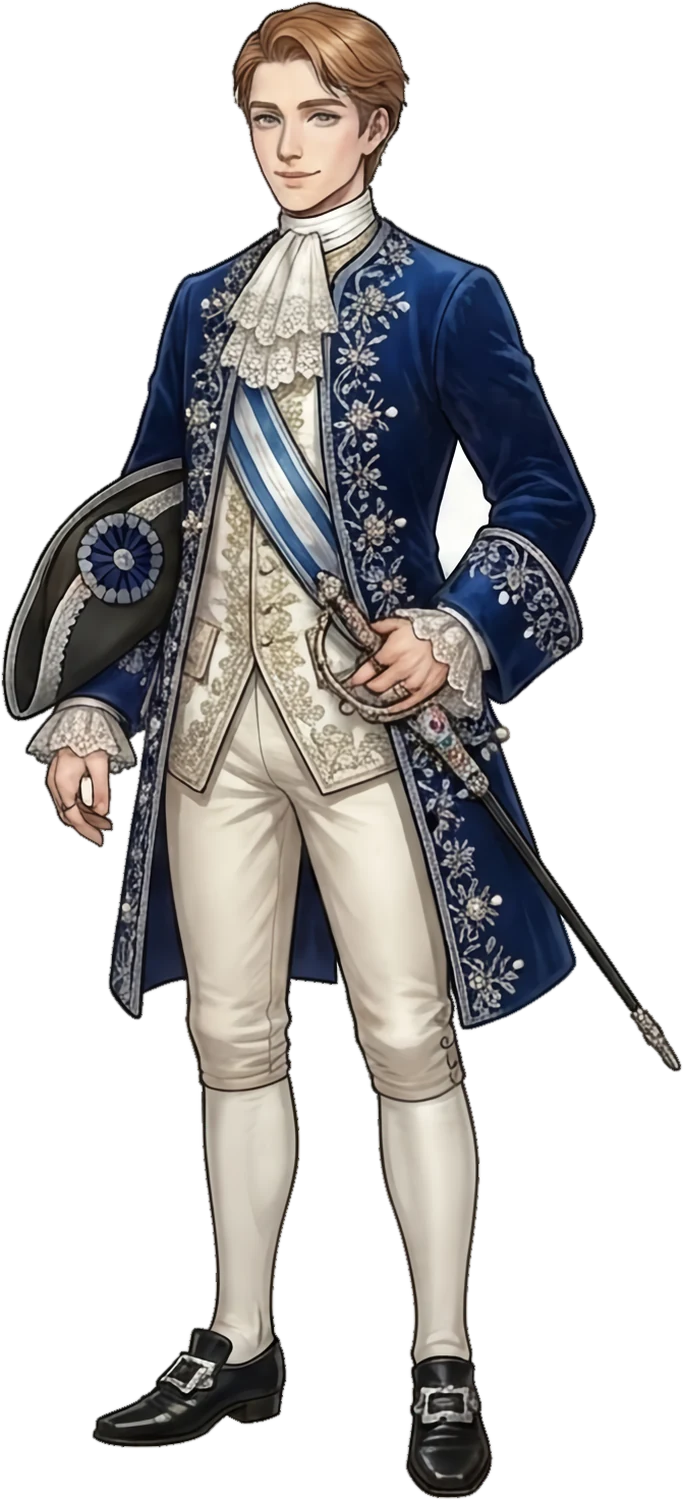
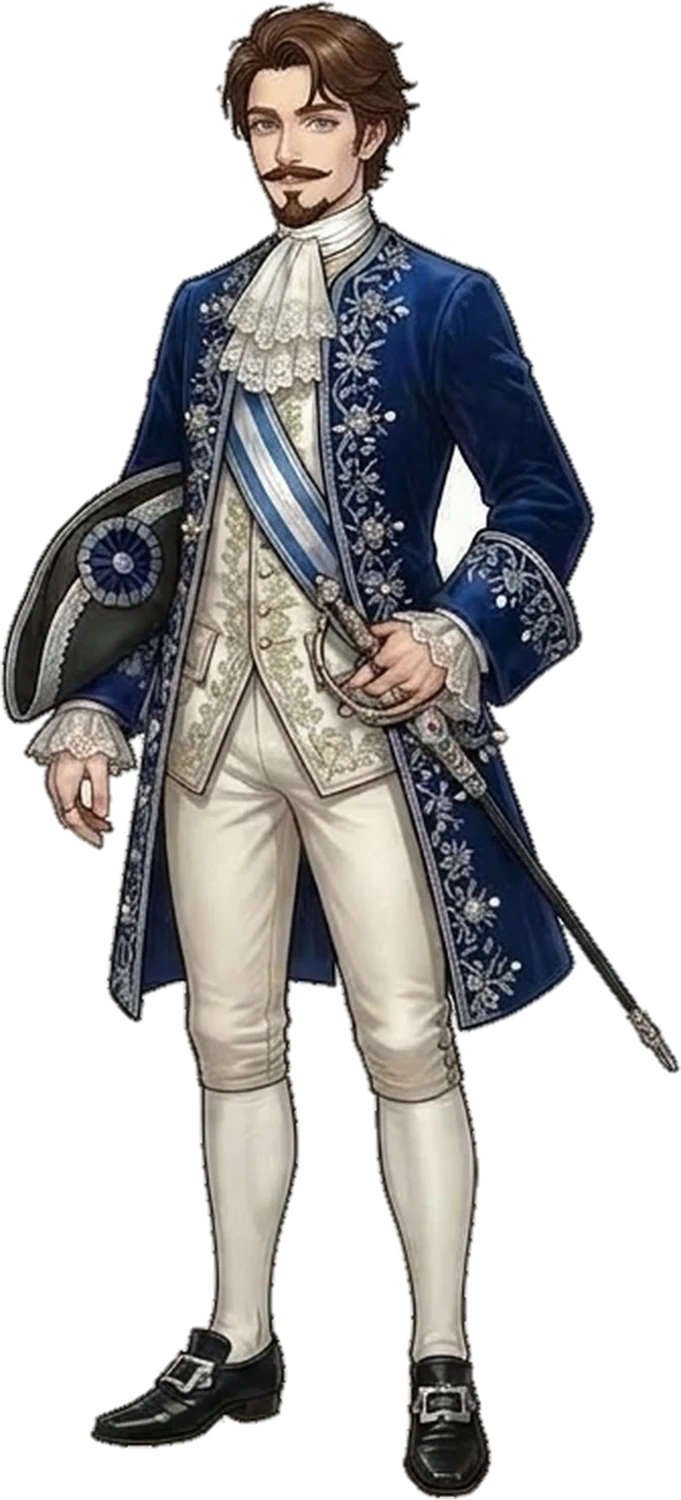
Corsaire : nouveau portrait d'Henry Wyndham
Claude-Session: https://claude.ai/code/session_01AMSofB5YBB9yuyCajHXYUu

diff --git a/sw.js b/sw.js
@@ -1,4 +1,4 @@
-const C='tlc-v61';const F=["./", "index.html", "manifest.webmanifest", "icons/favicon.png", "icons/icon-192.png", "icons/icon-512.png", "icons/icon-maskable-192.png", "icons/icon-maskable-512.png", "assets/agathe.webp", "assets/alistair.webp", "assets/beppe.webp", "assets/bess.webp", "assets/camille.webp", "assets/clem.webp", "assets/cordelia.webp", "assets/cordeliam.webp", "assets/dorval.webp", "assets/duchess.webp", "assets/edmund.webp", "assets/eleanor.webp", "assets/f1.webp", "assets/f2.webp", "assets/f3.webp", "assets/f4.webp", "assets/f5.webp", "assets/fanchon.webp", "assets/father.webp", "assets/fleury.webp", "assets/gabriel.webp", "assets/georgie.webp", "assets/guard.webp", "assets/henry.webp", "assets/iris.webp", "assets/judge.webp", "assets/jules.webp", "assets/kid.webp", "assets/kid2.webp", "assets/kit.webp", "assets/ladyp.webp", "assets/lettie.webp", "assets/lordp.webp", "assets/lucian.webp", "assets/m1.webp", "assets/m2.webp", "assets/m3.webp", "assets/m4.webp", "assets/mateo.webp", "assets/matthias.webp", "assets/mk_bluegold.webp", "assets/mk_duchess.webp", "assets/mk_greengold.webp", "assets/mk_mcf.webp", "assets/mk_mcm.webp", "assets/mk_mother.webp", "assets/mk_peregrine.webp", "assets/mk_pink.webp", "assets/mk_prudence.webp", "assets/mk_queen.webp", "assets/mother.webp", "assets/nell.webp", "assets/perceval.webp", "assets/peregrine.webp", "assets/philippe.webp", "assets/pmc1_gown.webp", "assets/pmc1_pirate.webp", "assets/pmc2_gown.webp", "assets/pmc2_pirate.webp", "assets/pmc3_gown.webp", "assets/pmc3_pirate.webp", "assets/pmc4_gown.webp", "assets/pmc4_pirate.webp", "assets/pmc5_gown.webp", "assets/pmc5_pirate.webp", "assets/prudence.webp", "assets/queen.webp", "assets/rosalind.webp", "assets/roux.webp", "assets/scarlett.webp", "assets/theo.webp", "assets/thomas.webp", "assets/volkov.webp", "assets/cg/ascot_edmund.webp", "assets/cg/ascot_mateo.webp", "assets/cg/ascot_nell.webp", "assets/cg/ascot_rosalind.webp", "assets/cg/bruxelles_mateo.webp", "assets/cg/chevet_edmund.webp", "assets/cg/chevet_mateo.webp", "assets/cg/chevet_nell.webp", "assets/cg/chevet_rosalind.webp", "assets/cg/famille4_mateo.webp", "assets/cg/famille_mateo.webp", "assets/cg/firstkiss_edmund.webp", "assets/cg/firstkiss_mateo.webp", "assets/cg/firstkiss_nell.webp", "assets/cg/firstkiss_rosalind.webp", "assets/cg/jardin_edmund.webp", "assets/cg/jardin_mateo.webp", "assets/cg/jardin_nell.webp", "assets/cg/jardin_rosalind.webp", "assets/cg/montmartre_mateo.webp", "assets/cg/pembroke_edmund.webp", "assets/cg/pembroke_mateo.webp", "assets/cg/pembroke_nell.webp", "assets/cg/pembroke_rosalind.webp", "assets/cg/retrouvailles_mateo.webp", "assets/cg/vauxhall_mateo.webp", "assets/cg/wedding_edmund.webp", "assets/cg/wedding_mateo.webp", "assets/cg/wedding_nell.webp"];
+const C='tlc-v62';const F=["./", "index.html", "manifest.webmanifest", "icons/favicon.png", "icons/icon-192.png", "icons/icon-512.png", "icons/icon-maskable-192.png", "icons/icon-maskable-512.png", "assets/agathe.webp", "assets/alistair.webp", "assets/beppe.webp", "assets/bess.webp", "assets/camille.webp", "assets/clem.webp", "assets/cordelia.webp", "assets/cordeliam.webp", "assets/dorval.webp", "assets/duchess.webp", "assets/edmund.webp", "assets/eleanor.webp", "assets/f1.webp", "assets/f2.webp", "assets/f3.webp", "assets/f4.webp", "assets/f5.webp", "assets/fanchon.webp", "assets/father.webp", "assets/fleury.webp", "assets/gabriel.webp", "assets/georgie.webp", "assets/guard.webp", "assets/henry.webp", "assets/iris.webp", "assets/judge.webp", "assets/jules.webp", "assets/kid.webp", "assets/kid2.webp", "assets/kit.webp", "assets/ladyp.webp", "assets/lettie.webp", "assets/lordp.webp", "assets/lucian.webp", "assets/m1.webp", "assets/m2.webp", "assets/m3.webp", "assets/m4.webp", "assets/mateo.webp", "assets/matthias.webp", "assets/mk_bluegold.webp", "assets/mk_duchess.webp", "assets/mk_greengold.webp", "assets/mk_mcf.webp", "assets/mk_mcm.webp", "assets/mk_mother.webp", "assets/mk_peregrine.webp", "assets/mk_pink.webp", "assets/mk_prudence.webp", "assets/mk_queen.webp", "assets/mother.webp", "assets/nell.webp", "assets/perceval.webp", "assets/peregrine.webp", "assets/philippe.webp", "assets/pmc1_gown.webp", "assets/pmc1_pirate.webp", "assets/pmc2_gown.webp", "assets/pmc2_pirate.webp", "assets/pmc3_gown.webp", "assets/pmc3_pirate.webp", "assets/pmc4_gown.webp", "assets/pmc4_pirate.webp", "assets/pmc5_gown.webp", "assets/pmc5_pirate.webp", "assets/prudence.webp", "assets/queen.webp", "assets/rosalind.webp", "assets/roux.webp", "assets/scarlett.webp", "assets/theo.webp", "assets/thomas.webp", "assets/volkov.webp", "assets/cg/ascot_edmund.webp", "assets/cg/ascot_mateo.webp", "assets/cg/ascot_nell.webp", "assets/cg/ascot_rosalind.webp", "assets/cg/bruxelles_mateo.webp", "assets/cg/chevet_edmund.webp", "assets/cg/chevet_mateo.webp", "assets/cg/chevet_nell.webp", "assets/cg/chevet_rosalind.webp", "assets/cg/famille4_mateo.webp", "assets/cg/famille_mateo.webp", "assets/cg/firstkiss_edmund.webp", "assets/cg/firstkiss_mateo.webp", "assets/cg/firstkiss_nell.webp", "assets/cg/firstkiss_rosalind.webp", "assets/cg/jardin_edmund.webp", "assets/cg/jardin_mateo.webp", "assets/cg/jardin_nell.webp", "assets/cg/jardin_rosalind.webp", "assets/cg/montmartre_mateo.webp", "assets/cg/pembroke_edmund.webp", "assets/cg/pembroke_mateo.webp", "assets/cg/pembroke_nell.webp", "assets/cg/pembroke_rosalind.webp", "assets/cg/retrouvailles_mateo.webp", "assets/cg/vauxhall_mateo.webp", "assets/cg/wedding_edmund.webp", "assets/cg/wedding_mateo.webp", "assets/cg/wedding_nell.webp"];
 self.addEventListener('install',e=>{e.waitUntil(caches.open(C).then(c=>c.addAll(F)).then(()=>self.skipWaiting()))});
 self.addEventListener('activate',e=>{e.waitUntil(caches.keys().then(k=>Promise.all(k.filter(x=>x!==C).map(x=>caches.delete(x)))).then(()=>self.clients.claim()))});
 self.addEventListener('fetch',e=>{if(e.request.method!=='GET')return;e.respondWith(caches.match(e.request).then(r=>r||fetch(e.request).then(res=>{if(res.ok||res.type==='opaque'){const cp=res.clone();caches.open(C).then(c=>c.put(e.request,cp))}return res}).catch(()=>caches.match('index.html'))))});

diff --git a/index.html b/index.html
@@ -7419,7 +7419,7 @@ N(`Ton sang se glace. Il ne peut pas savoir. Personne ne peut savoir. Il sourit,
 {bg:'docks',mus:'tender',card:['L\'arrivée','The arrival'],sub:['',''],where:['Le quai','The quay']},
 {st:['li2','mc']},
 N(`La chaloupe accoste. {a:Un jeune homme|Une jeune femme} en descend, et manque de tomber dans l'eau en posant le pied sur le quai glissant. Un matelot {a:le|la} rattrape par le coude. {a:Il|Elle} rougit jusqu'aux oreilles, remercie le matelot avec une politesse exquise, puis lève les yeux. Et te voit.`,`The launch comes alongside. A young {a:man|woman} steps out and nearly falls into the water setting foot on the slippery quay. A sailor catches {a:him|her} by the elbow. {a:He|She} blushes to the ears, thanks the sailor with exquisite courtesy, then looks up. And sees you.`),
-N(`{li2}. {a:Lord|Lady} Wyndham. {a:Grand, mince, un peu gauche, des cheveux châtain clair coupés court, des lunettes cerclées d'or qu'il retire précipitamment|Grande, mince, les cheveux châtain clair relevés en chignon dont s'échappent des mèches, des lunettes cerclées d'or qu'elle retire précipitamment}. Des yeux gris-vert, très doux, qui te regardent comme si tu étais la première chose belle qu'{a:il|elle} voyait depuis deux mois de mer.`,`{li2}. {a:Lord|Lady} Wyndham. {a:Tall, slim, a little awkward, light brown hair cut short, gold-rimmed spectacles he hurriedly takes off|Tall, slim, light brown hair pinned up with strands escaping, gold-rimmed spectacles she hurriedly takes off}. Grey-green eyes, very gentle, looking at you as if you were the first beautiful thing {a:he|she}'d seen after two months at sea.`),
+N(`{li2}. {a:Lord|Lady} Wyndham. {a:Grand, mince, un peu gauche, des cheveux châtains coupés court, une fine moustache et un petit bouc soignés, des lunettes cerclées d'or qu'il retire précipitamment|Grande, mince, les cheveux châtain clair relevés en chignon dont s'échappent des mèches, des lunettes cerclées d'or qu'elle retire précipitamment}. Des yeux gris-vert, très doux, qui te regardent comme si tu étais la première chose belle qu'{a:il|elle} voyait depuis deux mois de mer.`,`{li2}. {a:Lord|Lady} Wyndham. {a:Tall, slim, a little awkward, brown hair cut short, a neat thin moustache and small goatee, gold-rimmed spectacles he hurriedly takes off|Tall, slim, light brown hair pinned up with strands escaping, gold-rimmed spectacles she hurriedly takes off}. Grey-green eyes, very gentle, looking at you as if you were the first beautiful thing {a:he|she}'d seen after two months at sea.`),
 D('li2','s',`Mademoiselle {last}. Pardonnez-moi. Je… j'avais préparé un compliment. Pendant deux mois. En trois langues. Je les ai tous oubliés.`,`Miss {last}. Forgive me. I… I'd prepared a compliment. For two months. In three languages. I've forgotten them all.`),
 C('p2a',1,[
  {t:[`Sourire. « Alors dites-le dans une quatrième. »`,`Smile. "Then say it in a fourth."`],set:'pWarmWyndham',fx:{li2:3},r:[N(`{a:Il|Elle} cligne des yeux. Puis {a:il|elle} rit, un rire surpris, doux, qui {a:le|la} rend tout de suite moins guindé{a:|e}. « En portugais, alors. Mais je préviens, mon accent est épouvantable. » Il l'est. Tu ris aussi. Sur le quai, ton père pousse un soupir de soulagement qui s'entend jusqu'au fort.`,`{a:He|She} blinks. Then {a:he|she} laughs, a surprised, gentle laugh that makes {a:him|her} instantly less stiff. "In Portuguese, then. But I warn you, my accent is dreadful." It is. You laugh too. On the quay, your father heaves a sigh of relief audible all the way to the fort.`)]},
@@ -8072,7 +8072,7 @@ const PICS={
  roux:{src:'assets/roux.webp',w:554,h:1500,eye:[277,170,48],waist:.40},
  gabriel:{src:'assets/gabriel.webp',w:674,h:1500,eye:[288,170,48],waist:.42},
  scarlett:{src:'assets/scarlett.webp',w:724,h:1500,eye:[349,190,48],waist:.42},
- henry:{src:'assets/henry.webp',w:683,h:1500,eye:[320,170,48],waist:.42},
+ henry:{src:'assets/henry.webp',w:681,h:1500,eye:[317,170,48],waist:.42},
  eleanor:{src:'assets/eleanor.webp',w:906,h:1500,eye:[380,170,48],waist:.42},
  fanchon:{src:'assets/fanchon.webp',w:807,h:1500,eye:[379,170,48],waist:.42},
  thomas:{src:'assets/thomas.webp',w:781,h:1500,eye:[346,170,48],waist:.42},

diff --git a/source/story102.js b/source/story102.js
@@ -9,7 +9,7 @@ N(`Ton sang se glace. Il ne peut pas savoir. Personne ne peut savoir. Il sourit,
 {bg:'docks',mus:'tender',card:['L\'arrivée','The arrival'],sub:['',''],where:['Le quai','The quay']},
 {st:['li2','mc']},
 N(`La chaloupe accoste. {a:Un jeune homme|Une jeune femme} en descend, et manque de tomber dans l'eau en posant le pied sur le quai glissant. Un matelot {a:le|la} rattrape par le coude. {a:Il|Elle} rougit jusqu'aux oreilles, remercie le matelot avec une politesse exquise, puis lève les yeux. Et te voit.`,`The launch comes alongside. A young {a:man|woman} steps out and nearly falls into the water setting foot on the slippery quay. A sailor catches {a:him|her} by the elbow. {a:He|She} blushes to the ears, thanks the sailor with exquisite courtesy, then looks up. And sees you.`),
-N(`{li2}. {a:Lord|Lady} Wyndham. {a:Grand, mince, un peu gauche, des cheveux châtain clair coupés court, des lunettes cerclées d'or qu'il retire précipitamment|Grande, mince, les cheveux châtain clair relevés en chignon dont s'échappent des mèches, des lunettes cerclées d'or qu'elle retire précipitamment}. Des yeux gris-vert, très doux, qui te regardent comme si tu étais la première chose belle qu'{a:il|elle} voyait depuis deux mois de mer.`,`{li2}. {a:Lord|Lady} Wyndham. {a:Tall, slim, a little awkward, light brown hair cut short, gold-rimmed spectacles he hurriedly takes off|Tall, slim, light brown hair pinned up with strands escaping, gold-rimmed spectacles she hurriedly takes off}. Grey-green eyes, very gentle, looking at you as if you were the first beautiful thing {a:he|she}'d seen after two months at sea.`),
+N(`{li2}. {a:Lord|Lady} Wyndham. {a:Grand, mince, un peu gauche, des cheveux châtains coupés court, une fine moustache et un petit bouc soignés, des lunettes cerclées d'or qu'il retire précipitamment|Grande, mince, les cheveux châtain clair relevés en chignon dont s'échappent des mèches, des lunettes cerclées d'or qu'elle retire précipitamment}. Des yeux gris-vert, très doux, qui te regardent comme si tu étais la première chose belle qu'{a:il|elle} voyait depuis deux mois de mer.`,`{li2}. {a:Lord|Lady} Wyndham. {a:Tall, slim, a little awkward, brown hair cut short, a neat thin moustache and small goatee, gold-rimmed spectacles he hurriedly takes off|Tall, slim, light brown hair pinned up with strands escaping, gold-rimmed spectacles she hurriedly takes off}. Grey-green eyes, very gentle, looking at you as if you were the first beautiful thing {a:he|she}'d seen after two months at sea.`),
 D('li2','s',`Mademoiselle {last}. Pardonnez-moi. Je… j'avais préparé un compliment. Pendant deux mois. En trois langues. Je les ai tous oubliés.`,`Miss {last}. Forgive me. I… I'd prepared a compliment. For two months. In three languages. I've forgotten them all.`),
 C('p2a',1,[
  {t:[`Sourire. « Alors dites-le dans une quatrième. »`,`Smile. "Then say it in a fourth."`],set:'pWarmWyndham',fx:{li2:3},r:[N(`{a:Il|Elle} cligne des yeux. Puis {a:il|elle} rit, un rire surpris, doux, qui {a:le|la} rend tout de suite moins guindé{a:|e}. « En portugais, alors. Mais je préviens, mon accent est épouvantable. » Il l'est. Tu ris aussi. Sur le quai, ton père pousse un soupir de soulagement qui s'entend jusqu'au fort.`,`{a:He|She} blinks. Then {a:he|she} laughs, a surprised, gentle laugh that makes {a:him|her} instantly less stiff. "In Portuguese, then. But I warn you, my accent is dreadful." It is. You laugh too. On the quay, your father heaves a sigh of relief audible all the way to the fort.`)]},

diff --git a/source/main.js b/source/main.js
@@ -62,7 +62,7 @@ const PICS={
  roux:{src:'assets/roux.webp',w:554,h:1500,eye:[277,170,48],waist:.40},
  gabriel:{src:'assets/gabriel.webp',w:674,h:1500,eye:[288,170,48],waist:.42},
  scarlett:{src:'assets/scarlett.webp',w:724,h:1500,eye:[349,190,48],waist:.42},
- henry:{src:'assets/henry.webp',w:683,h:1500,eye:[320,170,48],waist:.42},
+ henry:{src:'assets/henry.webp',w:681,h:1500,eye:[317,170,48],waist:.42},
  eleanor:{src:'assets/eleanor.webp',w:906,h:1500,eye:[380,170,48],waist:.42},
  fanchon:{src:'assets/fanchon.webp',w:807,h:1500,eye:[379,170,48],waist:.42},
  thomas:{src:'assets/thomas.webp',w:781,h:1500,eye:[346,170,48],waist:.42},
